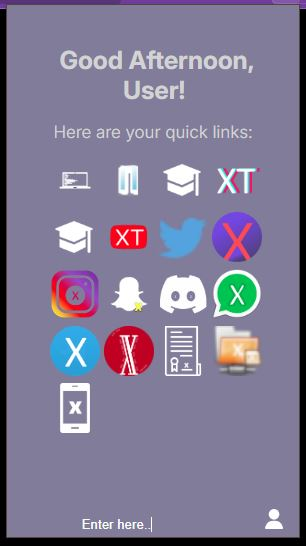
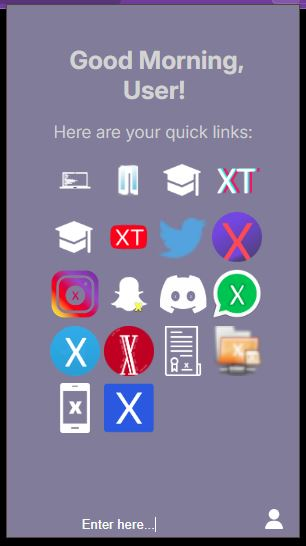
Added something new!
- Turns out this isn't the end. Hold your breath for something new, soon!

Changed region(s): [[0.3235, 0.685, 0.5294, 0.8095], [0.1765, 0.0934, 0.8235, 0.1557]]

diff --git a/Unpacked/xLinks/index.html b/Unpacked/xLinks/index.html
@@ -1,4 +1,4 @@
- <!DOCTYPE html>
+<!DOCTYPE html>
 <html lang="en">
 <head>
     <meta charset="UTF-8">
@@ -169,6 +169,9 @@
                                     <th>
                                         <a href="https://l-xdt.github.io/phone/" target="_blank"><img src="https://i.imgur.com/3VIYJbC.png"></a>
                                     </th>
+									<th>
+									<a href="https://l-xdt.github.io/linkedx/" target="_blank"><img src="https://imgur.com/AeTqpgb.png"></a>
+									</th>
                                     </tr>
         </table>
     </div>
